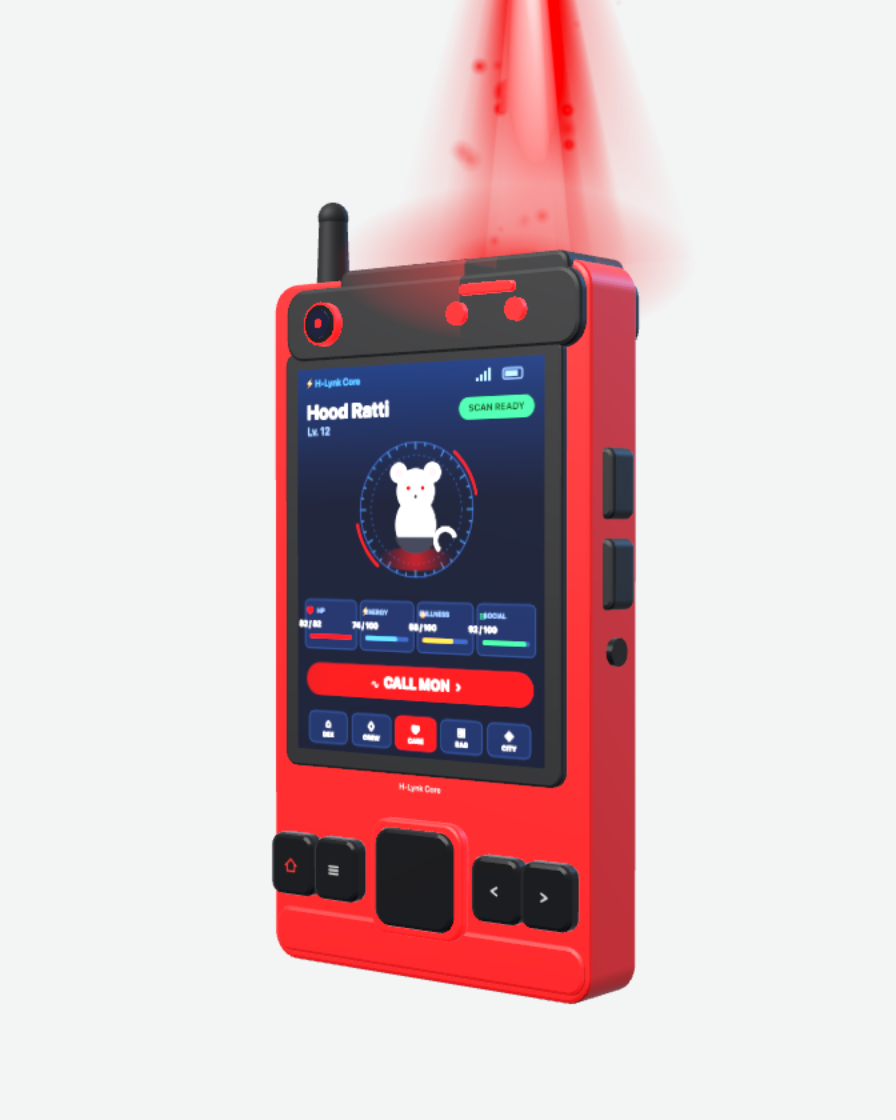
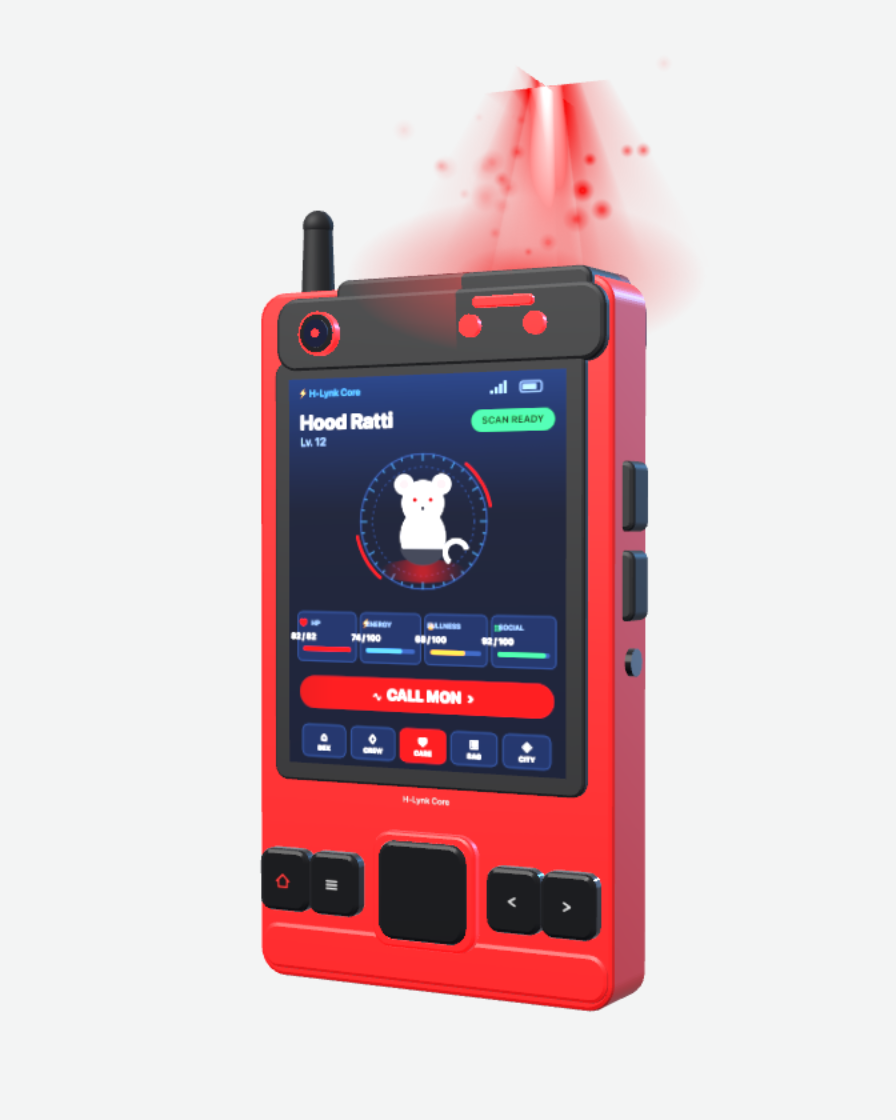
feat(web): interactive HUD + beam fits the stage frame
The screen now answers the pointer: raycast hits on the glass map to
HUD regions, so stat chips, nav icons and CALL MON light under hover,
and CALL MON charges the beam (brighter, longer, faster sparks). The
beam is shorter, leans back and fades fully at the tip so it no longer
clips the stage edge. Static capture refreshed.

Generated with [Devin](https://devin.ai)

Changed region(s): [[0.2812, 0.0, 0.75, 0.9062], [0.6875, 0.125, 0.7188, 0.1562]]

diff --git a/apps/web/components/home/device-scene.ts b/apps/web/components/home/device-scene.ts
@@ -79,8 +79,11 @@ export function createDeviceScene({ THREE, renderer }: ThreeContext, initial: De
   scene.add(rim);
 
   const device = buildDevice(THREE);
-  scene.add(device);
+  scene.add(device.group);
 
+  const raycaster = new THREE.Raycaster();
+  const ndc = new THREE.Vector2();
+  let boost = 0;
   let tiltX = 0;
   let tiltY = 0;
   let model = initial.model;
@@ -103,15 +106,32 @@ export function createDeviceScene({ THREE, renderer }: ThreeContext, initial: De
       const k = frame.delta > 0 ? 1 - Math.exp(-frame.delta * 6) : 1;
       tiltX += (goalX - tiltX) * k;
       tiltY += (goalY - tiltY) * k;
-      device.rotation.set(tiltX, target + tiltY, 0);
-      if (!frame.reducedMotion) device.userData.beamTick?.(frame.time);
+      device.group.rotation.set(tiltX, target + tiltY, 0);
+      // Screen interactivity: the pointer ray hits the glass, the HUD
+      // highlights whatever sits under it. Holding over CALL MON feeds
+      // the beam.
+      let hover: HudRegion | null = null;
+      if (frame.pointer.inside && !frame.reducedMotion) {
+        ndc.set(frame.pointer.x, frame.pointer.y);
+        raycaster.setFromCamera(ndc, camera);
+        const hit = raycaster.intersectObject(device.screen, false)[0];
+        if (hit?.uv !== undefined) hover = hudRegionAt(hit.uv.x, hit.uv.y);
+      }
+      device.setHover(hover);
+      boost += ((hover === 'call' ? 1 : 0) - boost) * k;
+      if (!frame.reducedMotion) device.beamTick(frame.time, boost);
     },
-    dispose: () => device.userData.dispose(),
+    dispose: () => device.group.userData.dispose(),
   };
 }
 
 /** One tracked material/geometry bucket so `dispose` frees everything. */
-function buildDevice(THREE: Three): Group {
+function buildDevice(THREE: Three): {
+  group: Group;
+  screen: Mesh;
+  setHover: (region: HudRegion | null) => void;
+  beamTick: (time: number, boost: number) => void;
+} {
   const geometries: Geometry[] = [];
   const materials: Material[] = [];
   const textures: { dispose(): void }[] = [];
@@ -155,8 +175,9 @@ function buildDevice(THREE: Three): Group {
   const lensGlass = mat(new THREE.MeshStandardMaterial({
     color: '#0A1030', roughness: 0.05, metalness: 0.55, envMapIntensity: 1.4,
   }));
-  /** Screen glass running the HUD texture; the map doubles as the emitter. */
-  const hudTexture = tex(hudCanvasTexture(THREE));
+  /** Screen glass running the interactive HUD; the map doubles as the emitter. */
+  const hud = createHud(THREE);
+  const hudTexture = tex(hud.texture);
   const screen = mat(new THREE.MeshStandardMaterial({
     map: hudTexture,
     emissiveMap: hudTexture,
@@ -262,7 +283,6 @@ function buildDevice(THREE: Three): Group {
   const beam = buildBeam(THREE, { track, mat, tex });
   beam.group.position.set(0.25, top, 0);
   group.add(beam.group);
-  group.userData.beamTick = beam.tick;
 
   // A hot glow right at the emitter mouth.
   const glowSprite = new THREE.Sprite(glow);
@@ -280,7 +300,7 @@ function buildDevice(THREE: Three): Group {
   // Recessed bezel ring, then the screen glass itself.
   const screenY = 0.17;
   box(rounded(0.88, 1.08, 0.03, 0.03), black, 0, screenY, front + 0.012);
-  box(track(new THREE.PlaneGeometry(0.8, 1.0)), screen, 0, screenY, front + 0.029);
+  const screenMesh = box(track(new THREE.PlaneGeometry(0.8, 1.0)), screen, 0, screenY, front + 0.029);
 
   // "H-Lynk Core" printed under the screen.
   const wordmark = decal('H-Lynk Core', 0.3, { size: 40, weight: 700 });
@@ -322,8 +342,8 @@ function buildDevice(THREE: Three): Group {
   // Left edge: the long action key.
   box(rounded(0.032, 0.18, 0.1, 0.012), black, -W / 2 - 0.014, 0.28, 0);
 
-  group.position.y = -0.12;
-  return group;
+  group.position.y = -0.15;
+  return { group, screen: screenMesh, setHover: hud.setHover, beamTick: beam.tick };
 }
 
 /**
@@ -340,10 +360,13 @@ function buildBeam(
     mat: <M extends Material>(m: M) => M;
     tex: <T extends { dispose(): void }>(t: T) => T;
   },
-): { group: Group; tick: (time: number) => void } {
+): { group: Group; tick: (time: number, boost: number) => void } {
   const { track, mat, tex } = ctx;
   const group = new THREE.Group();
-  const LENGTH = 0.85;
+  const LENGTH = 0.52;
+  // Lean back a touch: it reads as projection, not a sticker, and the tip
+  // clears the stage's top edge.
+  group.rotation.x = -0.12;
 
   // Shared falloff: bright at the mouth, fading with height and toward
   // the beam's edge. A texture, not vertex alpha — TSL materials need it.
@@ -411,21 +434,24 @@ function buildBeam(
     group.add(sprite);
   }
 
-  const tick = (time: number) => {
-    // The beam breathes — a slow pulse like a scanner cycling.
-    const pulse = 0.82 + 0.18 * Math.sin(time * 2.1);
-    wash.opacity = 0.45 * pulse;
-    mid.opacity = 0.75 * (0.75 + 0.25 * pulse);
-    core.opacity = 0.95 * (0.85 + 0.15 * Math.sin(time * 3.7 + 1));
+  const tick = (time: number, boost: number) => {
+    // The beam breathes — a slow pulse like a scanner cycling. CALL MON
+    // hovering feeds it: brighter, longer, sparks run faster.
+    const amp = 1 + 0.55 * boost;
+    const pulse = 0.82 + 0.18 * Math.sin(time * (2.1 + boost));
+    wash.opacity = Math.min(1, 0.45 * pulse * amp);
+    mid.opacity = Math.min(1, 0.75 * (0.75 + 0.25 * pulse) * amp);
+    core.opacity = Math.min(1, 0.95 * (0.85 + 0.15 * Math.sin(time * 3.7 + 1)) * amp);
+    group.scale.y = 1 + 0.12 * boost;
     for (const s of sparks) {
-      const t = (s.y0 + time * s.speed) % 1;
+      const t = (s.y0 + time * s.speed * (1 + 1.4 * boost)) % 1;
       const y = t * LENGTH;
       // Cone widens with height; sparks wander inside it and twinkle.
       const r = (0.06 + (0.5 - 0.06) * t) * s.spread;
       const a = s.phase + time * 0.8;
       s.sprite.position.set(Math.cos(a) * r, y, Math.sin(a) * r * 0.6);
       const fade = Math.sin(t * Math.PI);
-      const scale = s.size * (0.6 + 0.6 * fade);
+      const scale = s.size * (0.6 + 0.6 * fade) * (1 + 0.5 * boost);
       s.sprite.scale.set(scale, scale, 1);
       s.sprite.material.opacity = fade * (0.6 + 0.4 * Math.sin(time * 5 + s.phase));
     }
@@ -511,7 +537,7 @@ function beamGradientTexture(THREE: Three): CanvasTexture {
   const img = ctx.createImageData(128, 512);
   for (let y = 0; y < 512; y++) {
     const t = y / 511;
-    const vertical = Math.pow(1 - t, 1.4) + 0.08; // keeps a faint tip
+    const vertical = Math.pow(1 - t, 1.6) + 0.02; // tip fades to nearly nothing
     for (let x = 0; x < 128; x++) {
       const edge = Math.sin((x / 127) * Math.PI); // soft round cross-section
       const a = Math.round(255 * vertical * Math.pow(edge, 0.8));
@@ -598,15 +624,55 @@ function textTexture(THREE: Three, text: string, { size = 48, weight = 700, colo
   return makeCanvasTexture(THREE, canvas);
 }
 
+/** The interactive areas of the HUD, in draw order. */
+type HudRegion = 'call' | `nav-${0 | 1 | 2 | 3 | 4}` | `chip-${0 | 1 | 2 | 3}`;
+
+/** Screen UV → HUD region. UV v runs bottom-up; the canvas runs top-down. */
+function hudRegionAt(u: number, v: number): HudRegion | null {
+  const W = 768;
+  const x = u * W;
+  const y = (1 - v) * 1024;
+  if (x >= 32 && x <= W - 32 && y >= 790 && y <= 876) return 'call';
+  if (x >= 32 && x <= W - 32 && y >= 920 && y <= 1004) {
+    return `nav-${Math.min(4, Math.floor((x - 32) / ((W - 64) / 5))) as 0 | 1 | 2 | 3 | 4}`;
+  }
+  const chipStart = (W - 170 * 4 - 12 * 3) / 2;
+  if (y >= 620 && y <= 750 && x >= chipStart && x <= chipStart + 170 * 4 + 12 * 3) {
+    const i = Math.floor((x - chipStart) / 182);
+    if ((x - chipStart) % 182 <= 170) return `chip-${i as 0 | 1 | 2 | 3}`;
+  }
+  return null;
+}
+
 /**
- * The screen's UI, drawn once to a 768×1024 canvas: status bar, mon card,
- * four stat chips, the CALL MON bar and the bottom nav — the reference's
- * layout in the H-Lynk palette.
+ * The screen's UI as a live canvas: `setHover` redraws with the hovered
+ * element lit, and the texture uploads only when the hover target moves.
  */
-function hudCanvasTexture(THREE: Three): CanvasTexture {
+function createHud(THREE: Three): { texture: CanvasTexture; setHover: (region: HudRegion | null) => void } {
+  const [canvas, ctx] = canvas2d(768, 1024);
+  let hover: HudRegion | null = null;
+  drawHud(ctx, null);
+  const texture = makeCanvasTexture(THREE, canvas);
+  return {
+    texture,
+    setHover: (region) => {
+      if (region === hover) return;
+      hover = region;
+      drawHud(ctx, hover);
+      texture.needsUpdate = true;
+    },
+  };
+}
+
+/**
+ * The screen's UI: status bar, mon card, four stat chips, the CALL MON
+ * bar and the bottom nav — the reference's layout in the H-Lynk palette.
+ * `hover` names the lit element.
+ */
+function drawHud(ctx: CanvasRenderingContext2D, hover: HudRegion | null): void {
   const W = 768;
   const H = 1024;
-  const [canvas, ctx] = canvas2d(W, H);
+  ctx.clearRect(0, 0, W, H);
 
   // Backdrop: deep navy lifting to royal at the top.
   const bg = ctx.createLinearGradient(0, 0, 0, H);
@@ -735,11 +801,12 @@ function hudCanvasTexture(THREE: Three): CanvasTexture {
   ctx.font = font(24, 700);
   stats.forEach(([icon, label, value, color], i) => {
     const x = startX + i * (chipW + gap);
+    const lit = hover === `chip-${i}`;
     roundedRect(x, chipY, chipW, chipH, 14);
-    ctx.fillStyle = HUD.panel;
+    ctx.fillStyle = lit ? '#12306B' : HUD.panel;
     ctx.fill();
-    ctx.strokeStyle = HUD.line;
-    ctx.lineWidth = 2;
+    ctx.strokeStyle = lit ? HUD.text : HUD.line;
+    ctx.lineWidth = lit ? 3 : 2;
     ctx.stroke();
     ctx.fillStyle = color as string;
     ctx.font = font(26, 800);
@@ -761,12 +828,17 @@ function hudCanvasTexture(THREE: Three): CanvasTexture {
   });
 
   // --- CALL MON bar ----------------------------------------------------------
+  if (hover === 'call') {
+    ctx.shadowColor = 'rgba(248,60,60,0.9)';
+    ctx.shadowBlur = 32;
+  }
   roundedRect(32, 790, W - 64, 86, 43);
   const call = ctx.createLinearGradient(32, 0, W - 32, 0);
-  call.addColorStop(0, HUD.redDeep);
-  call.addColorStop(1, HUD.red);
+  call.addColorStop(0, hover === 'call' ? '#E02020' : HUD.redDeep);
+  call.addColorStop(1, hover === 'call' ? '#FF4040' : HUD.red);
   ctx.fillStyle = call;
   ctx.fill();
+  ctx.shadowBlur = 0;
   ctx.fillStyle = HUD.text;
   ctx.font = font(40, 900);
   ctx.fillText('∿  CALL MON  ›', W / 2, 834);
@@ -778,12 +850,13 @@ function hudCanvasTexture(THREE: Three): CanvasTexture {
   const navY = 920;
   const navW = (W - 64) / 5;
   nav.forEach(([icon, label, active], i) => {
+    const lit = hover === `nav-${i}`;
     const x = 32 + i * navW;
     roundedRect(x + 8, navY, navW - 16, 84, 16);
-    ctx.fillStyle = active ? HUD.red : HUD.panel;
+    ctx.fillStyle = active || lit ? HUD.red : HUD.panel;
     ctx.fill();
-    ctx.strokeStyle = active ? HUD.red : HUD.line;
-    ctx.lineWidth = 2;
+    ctx.strokeStyle = lit ? HUD.text : active ? HUD.red : HUD.line;
+    ctx.lineWidth = lit ? 3 : 2;
     ctx.stroke();
     ctx.fillStyle = HUD.text;
     ctx.font = font(30, 700);
@@ -791,6 +864,4 @@ function hudCanvasTexture(THREE: Three): CanvasTexture {
     ctx.font = font(18, 800);
     ctx.fillText(label, x + navW / 2, navY + 62);
   });
-
-  return makeCanvasTexture(THREE, canvas);
 }
